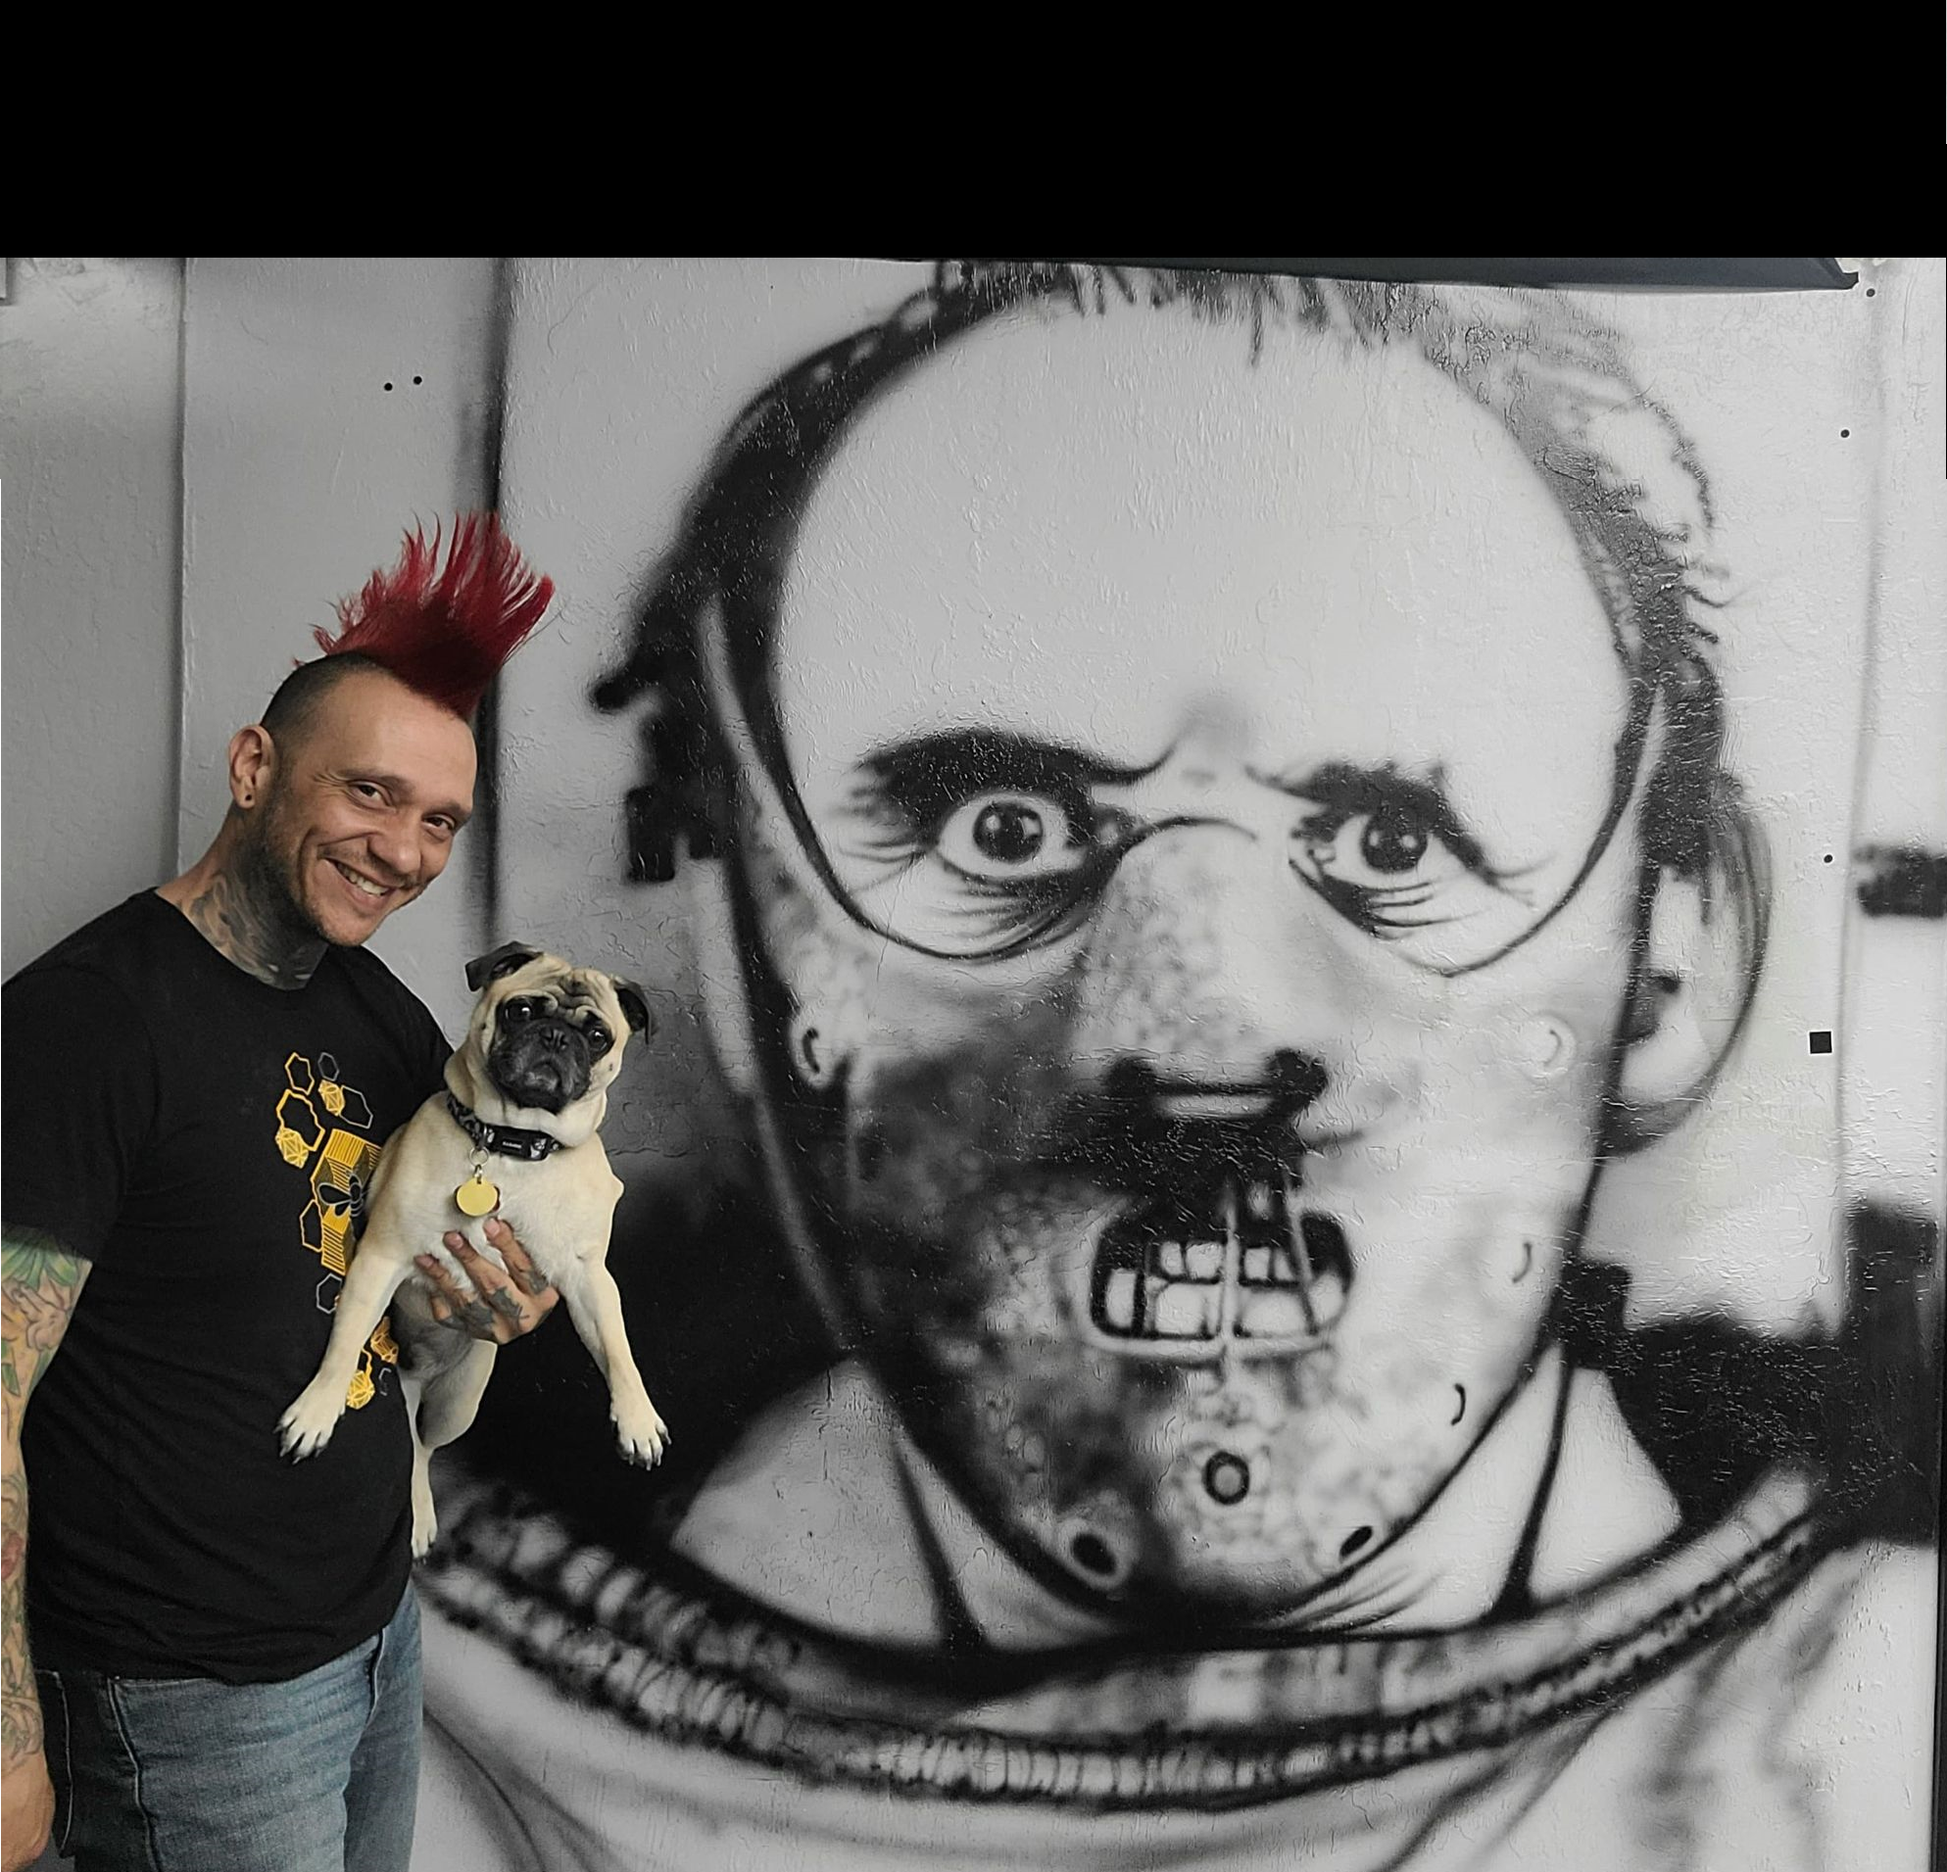
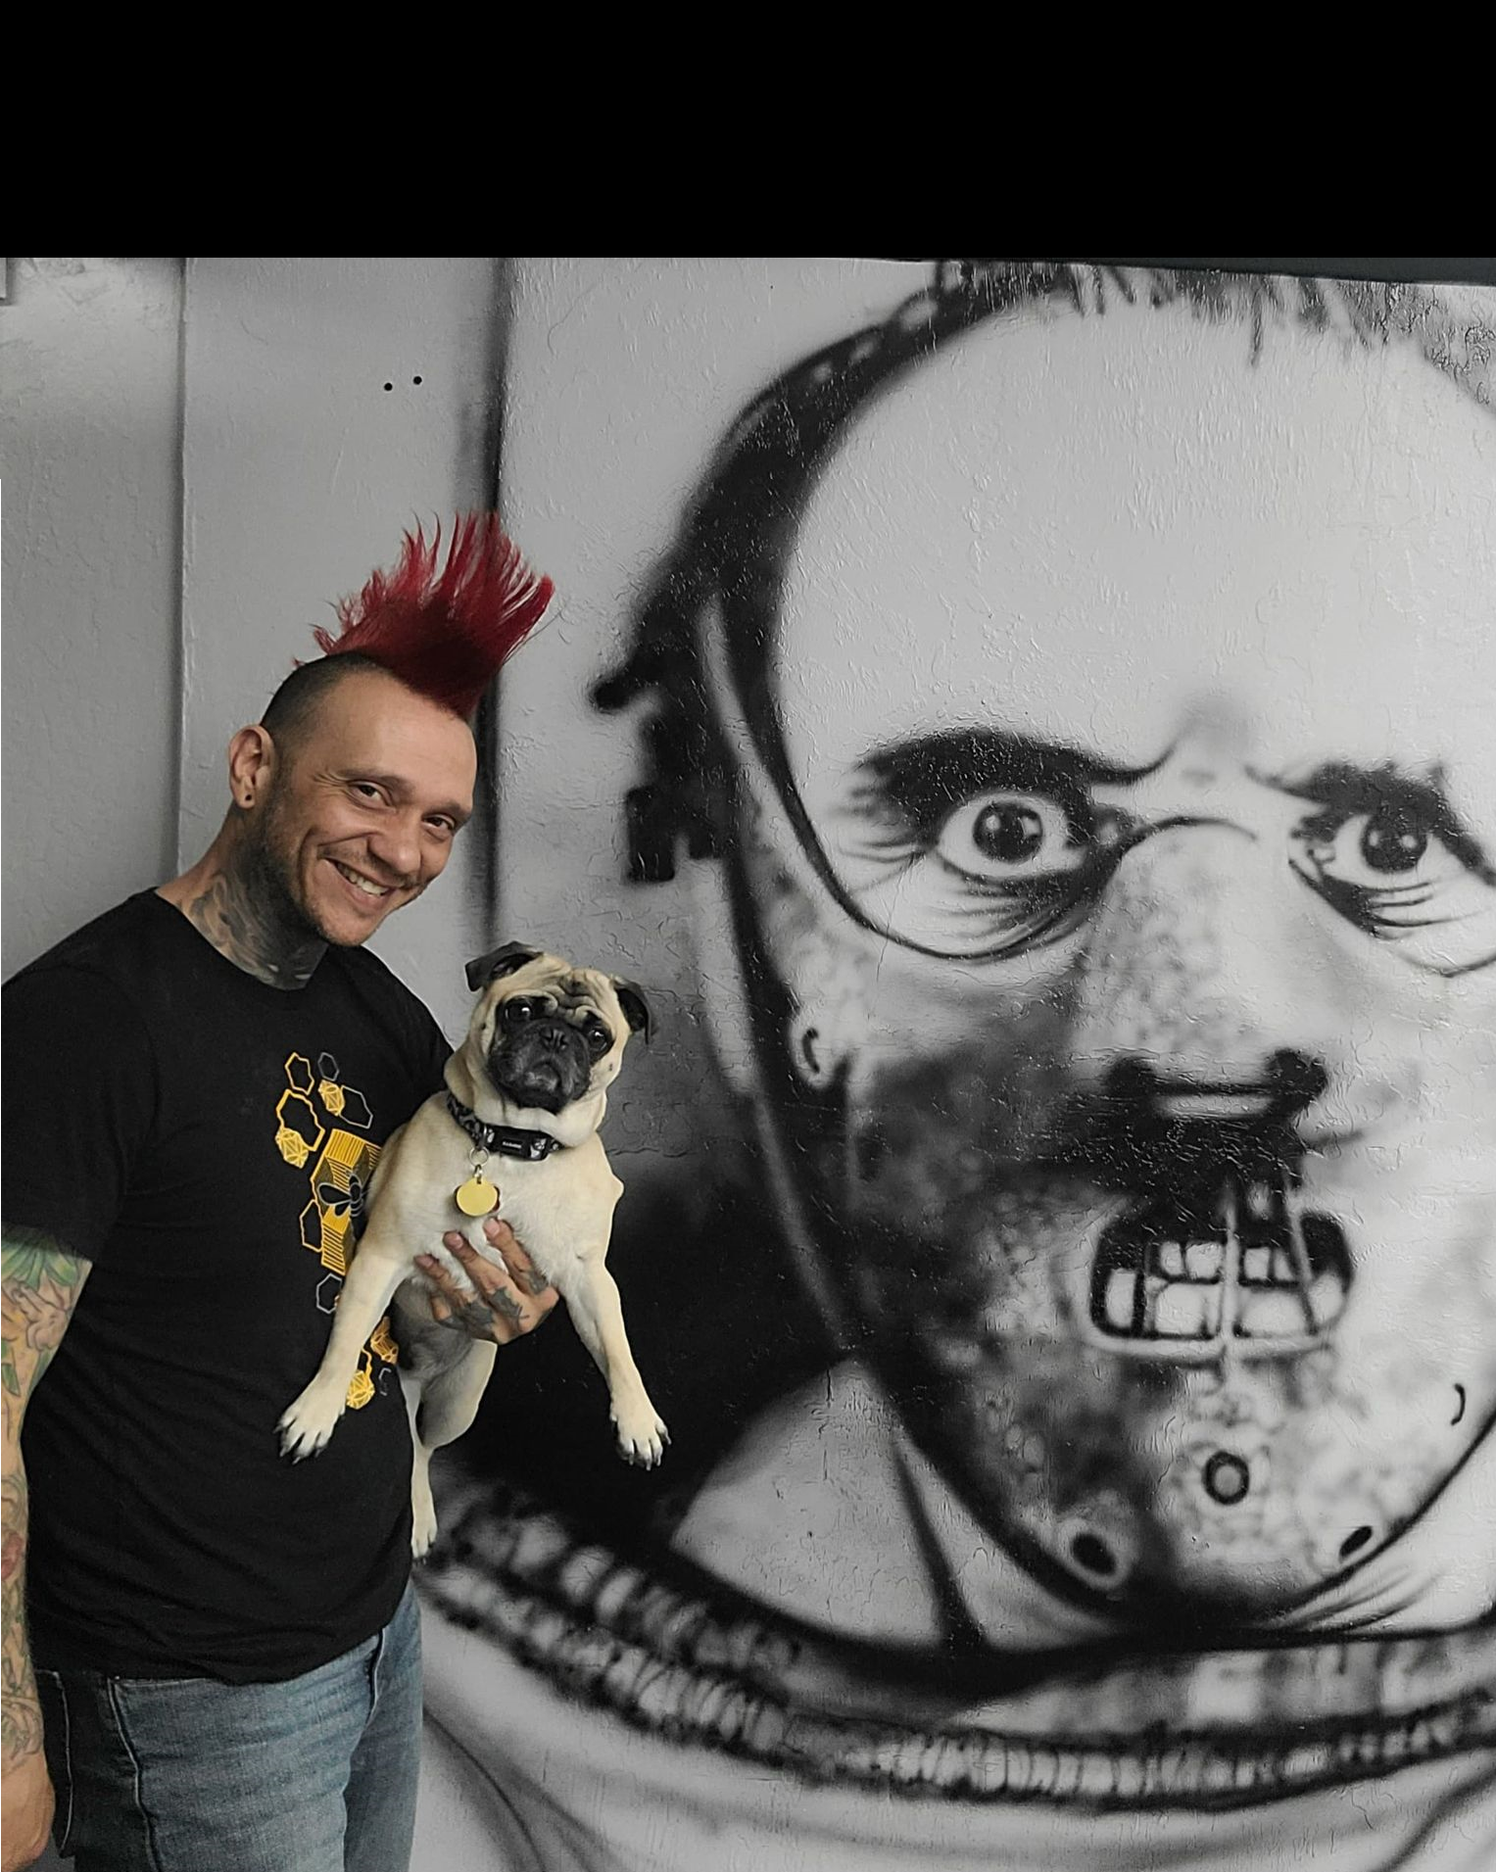
Updated homepage for mobile
Made imagine not cut hollis off

diff --git a/src/views/Home.jsx b/src/views/Home.jsx
@@ -37,7 +37,7 @@ class Components extends React.Component {
           }}
           {...rest}
         />
-        <Parallax image={require("../assets/img/shop-front2.png")}>
+        <Parallax image={require("../assets/img/shop-front.png")}>
           <div className={classes.container}>
             <GridContainer>
               <GridItem>

diff --git a/README.md b/README.md
@@ -1,5 +1,5 @@
-## a run down of what I may want to add
+## Reminder to firebase launching as the site is updated once every two years since january 2019
 
-- Admin page (this page would be used for owner of site to sign in and have crud functionality events on events page)
-
-- "Swag" page for when the owner of the site starts selling merch (page skeleton created for when merch starts being sold)
+- npm run build
+- firebase init (no to every question, use build insted of public. Do this just once)
+- firebase deploy
